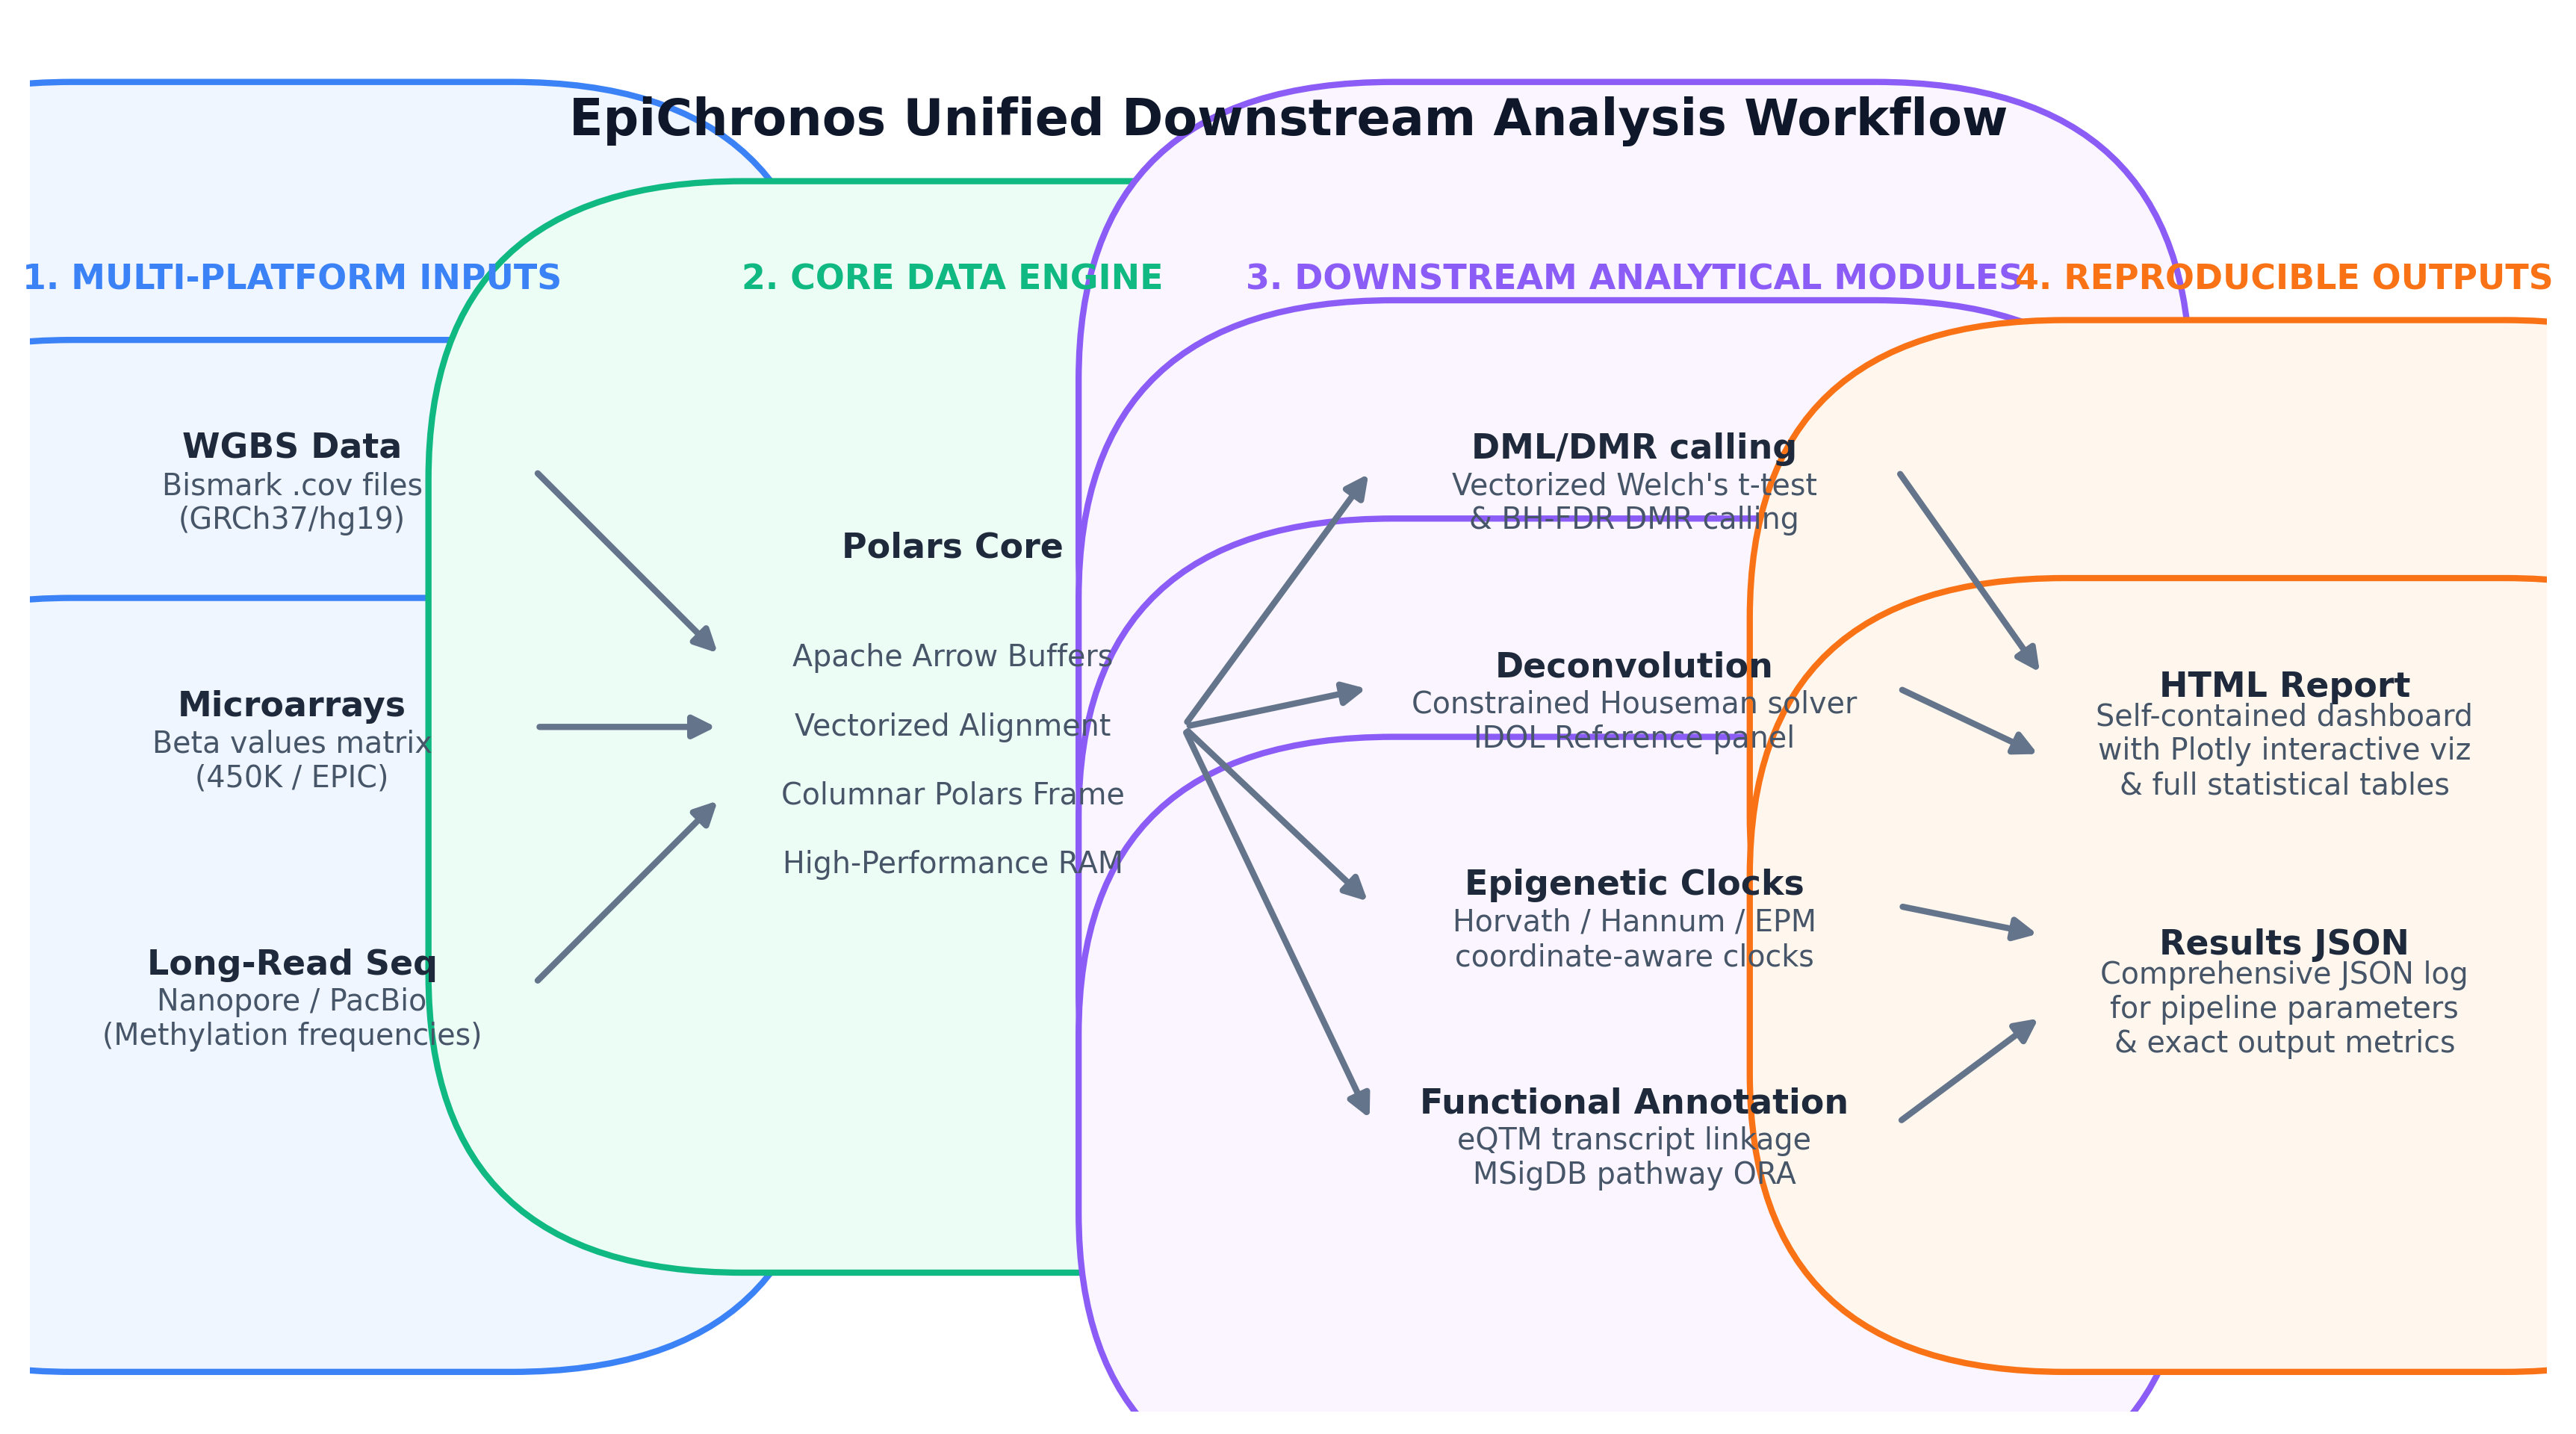
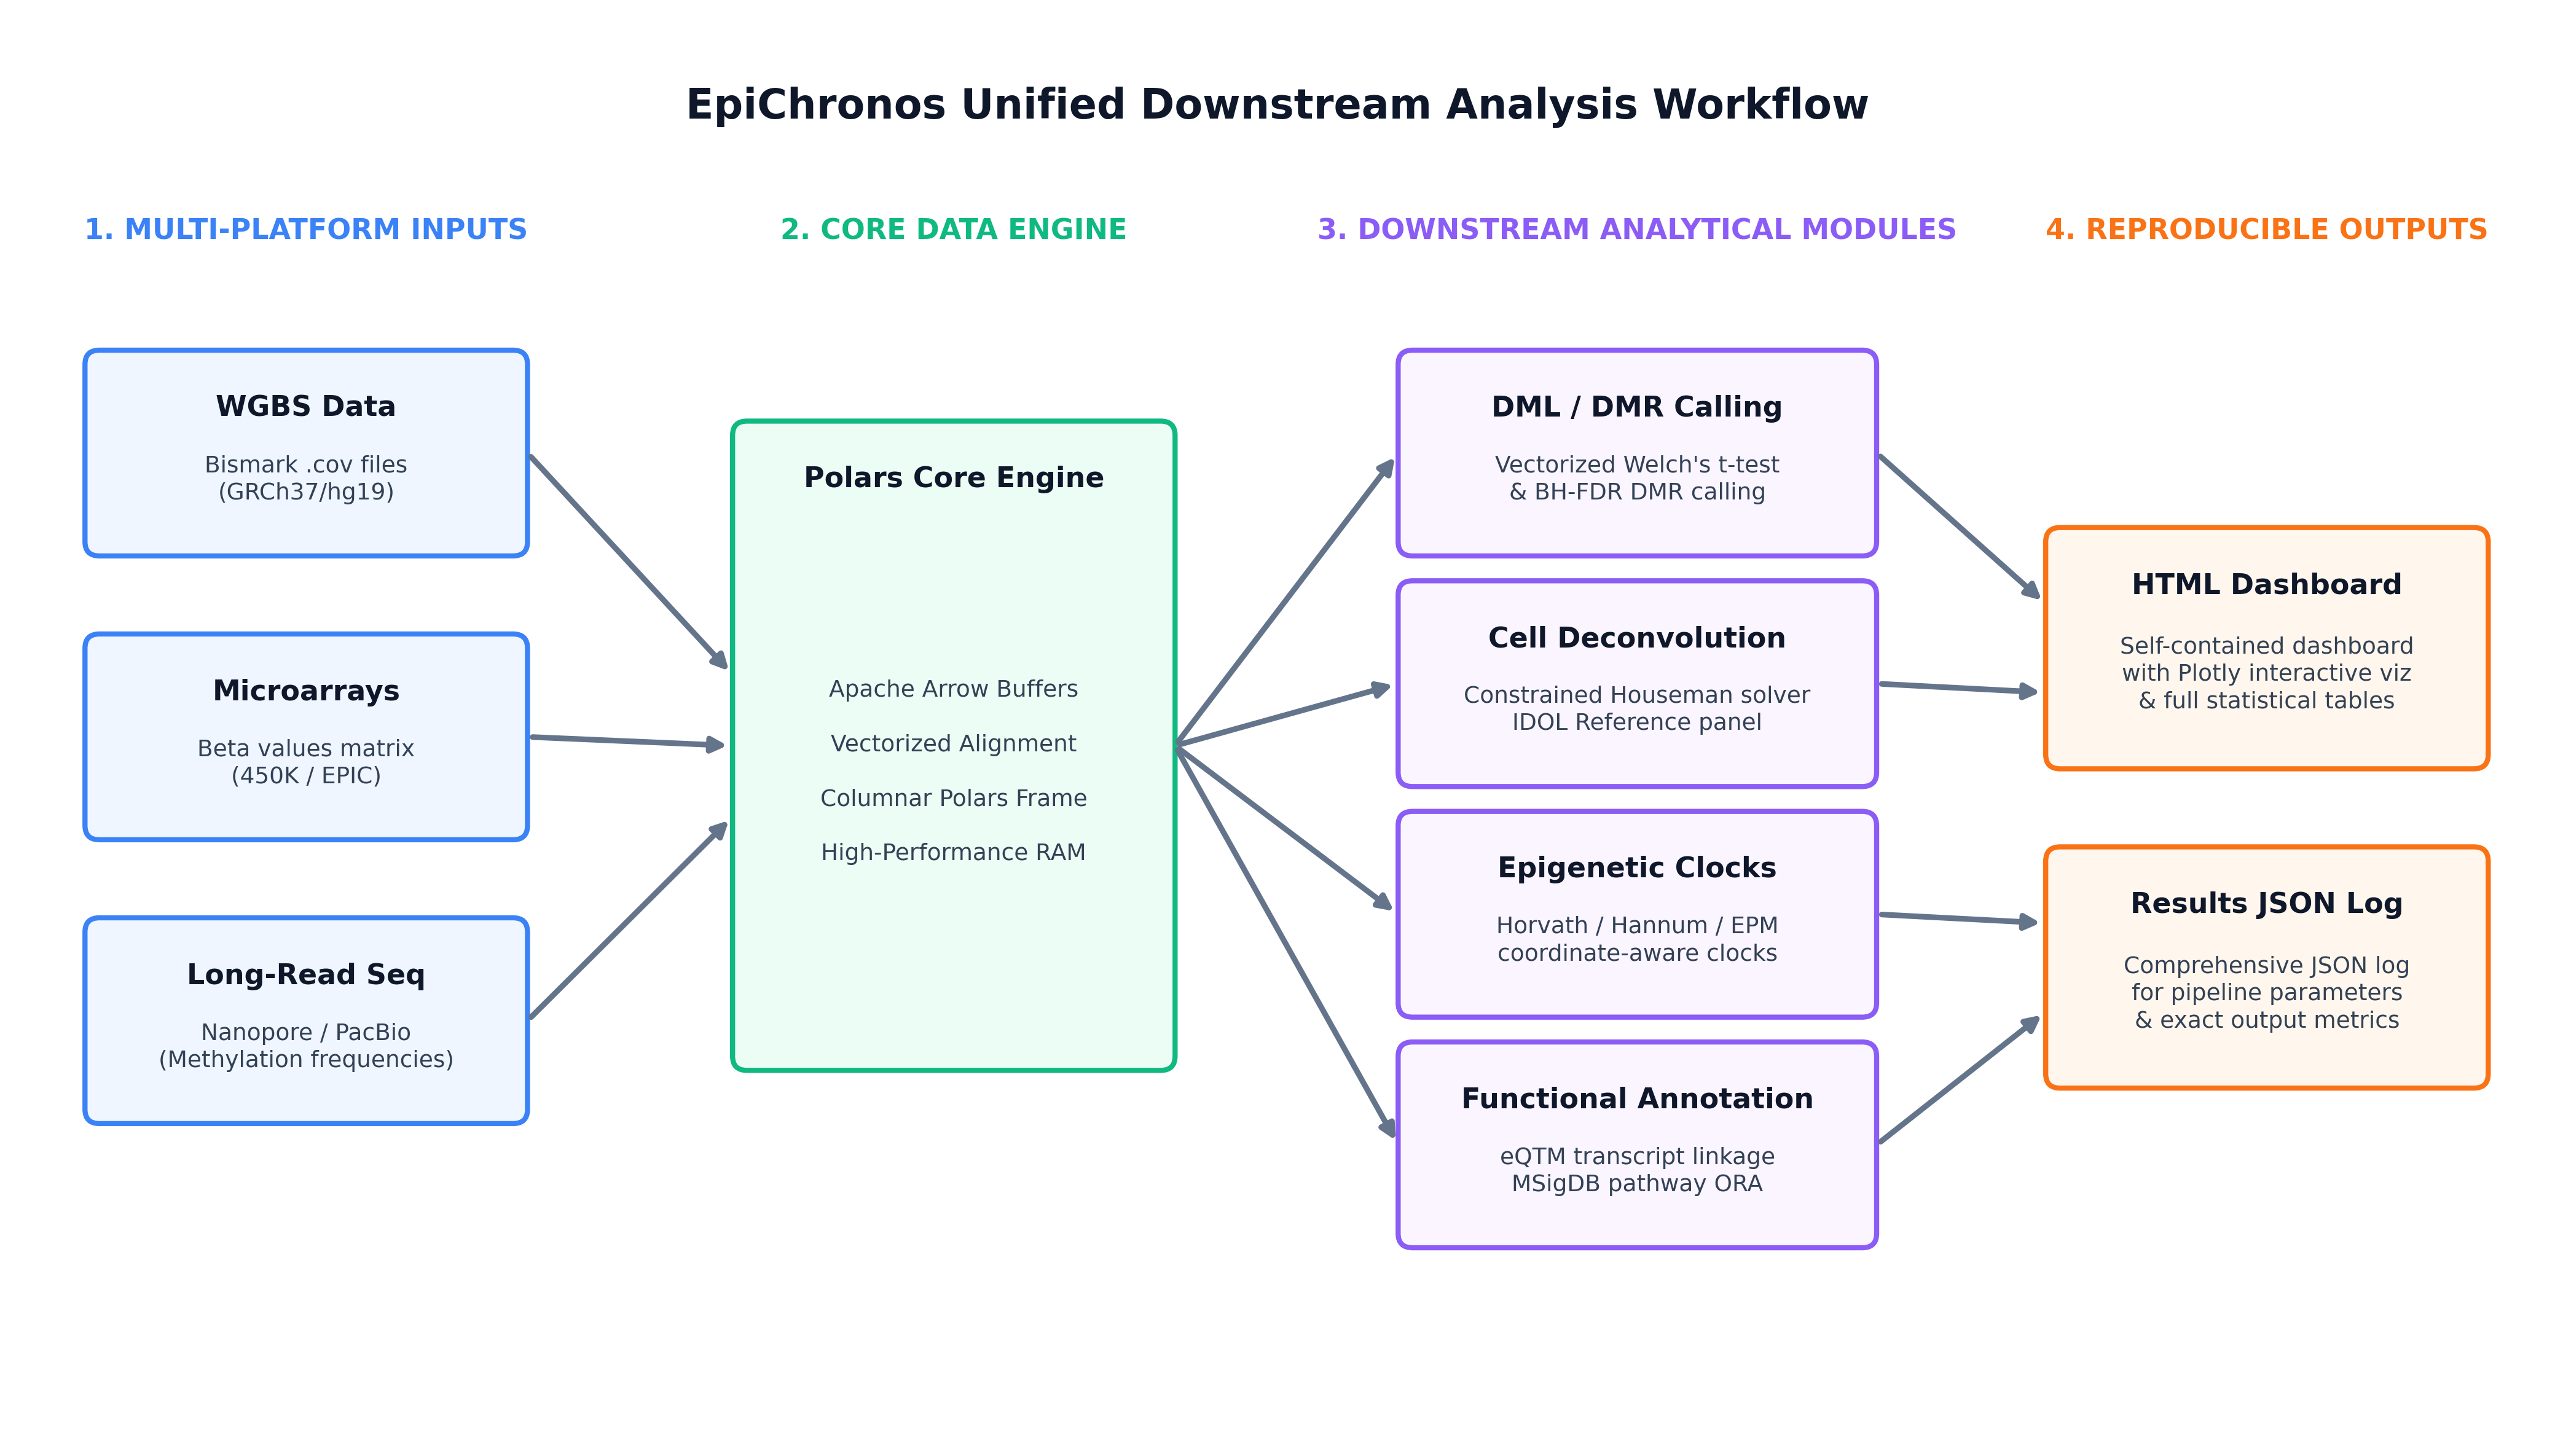
docs: resolve FancyBboxPatch coordinate scaling issues and overlap in schematic

diff --git a/realdata/generate_workflow_schematic.py b/realdata/generate_workflow_schematic.py
@@ -1,9 +1,10 @@
 import matplotlib.pyplot as plt
 import matplotlib.patches as patches
 
-fig, ax = plt.subplots(figsize=(12, 6.5), dpi=300)
-ax.set_xlim(0, 12)
-ax.set_ylim(0, 7)
+# Create a clean, high-resolution canvas with generous spacing
+fig, ax = plt.subplots(figsize=(14, 8), dpi=300)
+ax.set_xlim(0, 14)
+ax.set_ylim(0, 8)
 ax.axis('off')
 
 # Colors
@@ -16,75 +17,76 @@ border_module = '#8b5cf6' # purple
 color_output = '#fff7ed' # light orange
 border_output = '#f97316' # orange
 
-# Function to draw a box
+# Function to draw a beautifully proportioned rounded box
 def draw_box(ax, x, y, w, h, text, title="", bg_color="#f8fafc", border_color="#cbd5e1"):
+    # Using mutation_scale=1 to keep padding and rounding exactly in data coordinates!
     rect = patches.FancyBboxPatch(
         (x, y), w, h, 
-        boxstyle="round,pad=0.1", 
+        boxstyle="round,pad=0.03,rounding_size=0.08", 
         linewidth=2, 
         edgecolor=border_color, 
         facecolor=bg_color,
-        mutation_scale=15
+        mutation_scale=1
     )
     ax.add_patch(rect)
     if title:
-        ax.text(x + w/2, y + h - 0.35, title, ha='center', va='center', fontsize=11, fontweight='bold', color='#1e293b')
-        ax.text(x + w/2, y + (h - 0.35)/2, text, ha='center', va='center', fontsize=9.5, color='#475569')
+        # Title text
+        ax.text(x + w/2, y + h - 0.3, title, ha='center', va='center', fontsize=11, fontweight='bold', color='#0f172a')
+        # Subtext details
+        ax.text(x + w/2, y + (h - 0.3)/2, text, ha='center', va='center', fontsize=9, color='#334155', linespacing=1.3)
     else:
-        ax.text(x + w/2, y + h/2, text, ha='center', va='center', fontsize=10, fontweight='medium', color='#1e293b')
+        ax.text(x + w/2, y + h/2, text, ha='center', va='center', fontsize=9.5, color='#334155', linespacing=1.3)
 
-# Function to draw an arrow
+# Function to draw an arrow with clean terminals
 def draw_arrow(ax, x1, y1, x2, y2, color="#64748b"):
     ax.annotate(
         "", 
         xy=(x2, y2), 
         xytext=(x1, y1),
-        arrowprops=dict(arrowstyle="-|>", color=color, lw=2, mutation_scale=15)
+        arrowprops=dict(arrowstyle="-|>", color=color, lw=2.2, mutation_scale=12)
     )
 
-# --- 1. Draw Columns ---
+# --- Draw Title ---
+ax.text(7, 7.5, "EpiChronos Unified Downstream Analysis Workflow", ha='center', va='center', fontsize=16, fontweight='bold', color='#0f172a')
 
-# Title
-ax.text(6, 6.5, "EpiChronos Unified Downstream Analysis Workflow", ha='center', va='center', fontsize=16, fontweight='bold', color='#0f172a')
+# --- Column 1: INPUTS ---
+ax.text(1.6, 6.8, "1. MULTI-PLATFORM INPUTS", ha='center', va='center', fontsize=11, fontweight='bold', color=border_input)
+draw_box(ax, 0.4, 5.0, 2.4, 1.1, "Bismark .cov files\n(GRCh37/hg19)", "WGBS Data", color_input, border_input)
+draw_box(ax, 0.4, 3.4, 2.4, 1.1, "Beta values matrix\n(450K / EPIC)", "Microarrays", color_input, border_input)
+draw_box(ax, 0.4, 1.8, 2.4, 1.1, "Nanopore / PacBio\n(Methylation frequencies)", "Long-Read Seq", color_input, border_input)
 
-# Column 1: INPUTS
-ax.text(1.25, 5.7, "1. MULTI-PLATFORM INPUTS", ha='center', va='center', fontsize=11, fontweight='bold', color=border_input)
-draw_box(ax, 0.2, 4.3, 2.1, 0.9, "Bismark .cov files\n(GRCh37/hg19)", "WGBS Data", color_input, border_input)
-draw_box(ax, 0.2, 3.0, 2.1, 0.9, "Beta values matrix\n(450K / EPIC)", "Microarrays", color_input, border_input)
-draw_box(ax, 0.2, 1.7, 2.1, 0.9, "Nanopore / PacBio\n(Methylation frequencies)", "Long-Read Seq", color_input, border_input)
+# Connect Inputs to Engine (using box edges with 0.03 padding accounted for)
+draw_arrow(ax, 2.83, 5.55, 3.97, 4.3)
+draw_arrow(ax, 2.83, 3.95, 3.97, 3.9)
+draw_arrow(ax, 2.83, 2.35, 3.97, 3.5)
 
-# Connect Inputs to Engine
-draw_arrow(ax, 2.4, 4.75, 3.3, 3.8)
-draw_arrow(ax, 2.4, 3.45, 3.3, 3.45)
-draw_arrow(ax, 2.4, 2.15, 3.3, 3.1)
-
-# Column 2: ENGINE
-ax.text(4.4, 5.7, "2. CORE DATA ENGINE", ha='center', va='center', fontsize=11, fontweight='bold', color=border_engine)
-draw_box(ax, 3.4, 2.2, 2.0, 2.5, "Apache Arrow Buffers\n\nVectorized Alignment\n\nColumnar Polars Frame\n\nHigh-Performance RAM", "Polars Core", color_engine, border_engine)
+# --- Column 2: ENGINE ---
+ax.text(5.2, 6.8, "2. CORE DATA ENGINE", ha='center', va='center', fontsize=11, fontweight='bold', color=border_engine)
+draw_box(ax, 4.0, 2.1, 2.4, 3.6, "Apache Arrow Buffers\n\nVectorized Alignment\n\nColumnar Polars Frame\n\nHigh-Performance RAM", "Polars Core Engine", color_engine, border_engine)
 
 # Connect Engine to Modules
-draw_arrow(ax, 5.5, 3.45, 6.4, 4.75)
-draw_arrow(ax, 5.5, 3.45, 6.4, 3.65)
-draw_arrow(ax, 5.5, 3.45, 6.4, 2.55)
-draw_arrow(ax, 5.5, 3.45, 6.4, 1.45)
+draw_arrow(ax, 6.43, 3.9, 7.67, 5.55)
+draw_arrow(ax, 6.43, 3.9, 7.67, 4.25)
+draw_arrow(ax, 6.43, 3.9, 7.67, 2.95)
+draw_arrow(ax, 6.43, 3.9, 7.67, 1.65)
 
-# Column 3: MODULES
-ax.text(7.65, 5.7, "3. DOWNSTREAM ANALYTICAL MODULES", ha='center', va='center', fontsize=11, fontweight='bold', color=border_module)
-draw_box(ax, 6.5, 4.3, 2.3, 0.9, "Vectorized Welch's t-test\n& BH-FDR DMR calling", "DML/DMR calling", color_module, border_module)
-draw_box(ax, 6.5, 3.2, 2.3, 0.9, "Constrained Houseman solver\nIDOL Reference panel", "Deconvolution", color_module, border_module)
-draw_box(ax, 6.5, 2.1, 2.3, 0.9, "Horvath / Hannum / EPM\ncoordinate-aware clocks", "Epigenetic Clocks", color_module, border_module)
-draw_box(ax, 6.5, 1.0, 2.3, 0.9, "eQTM transcript linkage\nMSigDB pathway ORA", "Functional Annotation", color_module, border_module)
+# --- Column 3: MODULES ---
+ax.text(9.0, 6.8, "3. DOWNSTREAM ANALYTICAL MODULES", ha='center', va='center', fontsize=11, fontweight='bold', color=border_module)
+draw_box(ax, 7.7, 5.0, 2.6, 1.1, "Vectorized Welch's t-test\n& BH-FDR DMR calling", "DML / DMR Calling", color_module, border_module)
+draw_box(ax, 7.7, 3.7, 2.6, 1.1, "Constrained Houseman solver\nIDOL Reference panel", "Cell Deconvolution", color_module, border_module)
+draw_box(ax, 7.7, 2.4, 2.6, 1.1, "Horvath / Hannum / EPM\ncoordinate-aware clocks", "Epigenetic Clocks", color_module, border_module)
+draw_box(ax, 7.7, 1.1, 2.6, 1.1, "eQTM transcript linkage\nMSigDB pathway ORA", "Functional Annotation", color_module, border_module)
 
-# Connect Modules to Outputs
-draw_arrow(ax, 8.9, 4.75, 9.6, 3.7)
-draw_arrow(ax, 8.9, 3.65, 9.6, 3.3)
-draw_arrow(ax, 8.9, 2.55, 9.6, 2.4)
-draw_arrow(ax, 8.9, 1.45, 9.6, 2.0)
+# Connect Modules to Outputs (Top two modules to HTML Report, bottom two to Results JSON)
+draw_arrow(ax, 10.33, 5.55, 11.27, 4.7)
+draw_arrow(ax, 10.33, 4.25, 11.27, 4.2)
+draw_arrow(ax, 10.33, 2.95, 11.27, 2.9)
+draw_arrow(ax, 10.33, 1.65, 11.27, 2.4)
 
-# Column 4: OUTPUTS
-ax.text(10.75, 5.7, "4. REPRODUCIBLE OUTPUTS", ha='center', va='center', fontsize=11, fontweight='bold', color=border_output)
-draw_box(ax, 9.7, 3.0, 2.1, 1.0, "Self-contained dashboard\nwith Plotly interactive viz\n& full statistical tables", "HTML Report", color_output, border_output)
-draw_box(ax, 9.7, 1.7, 2.1, 1.0, "Comprehensive JSON log\nfor pipeline parameters\n& exact output metrics", "Results JSON", color_output, border_output)
+# --- Column 4: OUTPUTS ---
+ax.text(12.5, 6.8, "4. REPRODUCIBLE OUTPUTS", ha='center', va='center', fontsize=11, fontweight='bold', color=border_output)
+draw_box(ax, 11.3, 3.8, 2.4, 1.3, "Self-contained dashboard\nwith Plotly interactive viz\n& full statistical tables", "HTML Dashboard", color_output, border_output)
+draw_box(ax, 11.3, 2.0, 2.4, 1.3, "Comprehensive JSON log\nfor pipeline parameters\n& exact output metrics", "Results JSON Log", color_output, border_output)
 
 plt.tight_layout()
 output_path = r"C:\Users\rashi\Desktop\PYTHON CODES\new 23\realdata\workflow_schematic.png"